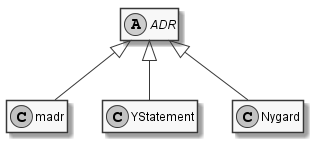
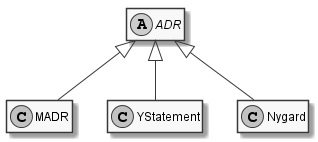
Rename madr to MADR

diff --git a/index.md b/index.md
@@ -6,21 +6,22 @@ An *Architectural Decision Record (ADR)* captures a single AD, such as often don
 All these are within the topic of Architectural Knowledge Management (AKM).
 Note: this short intro to ADRs is based on information in [Joel Parkerhenderson's GitHub repo](https://github.com/joelparkerhenderson/architecture_decision_record/blob/01cc3c801b1cc61f82391a0a08986e4145e21c56/README.md).
 
-The aim of this [GitHub adr organization](http://github.com/adr) is to:
+The aim of the [GitHub adr organization](http://github.com/adr) is to:
+
 1. Motivate the need for and benefits of AD capturing and establish a common vocabulary 
-2. Strenghten the tooling around ADRs, in support of agile practices and iterative and incremental software engineering processes
-3. Provide provide pointers to public knowledge in the context of AKM and ADRs (for instance, [this website](https://www.ifs.hsr.ch/index.php?id=13201&L=4))
+2. Strengthen the tooling around ADRs, in support of agile practices as well as iterative and incremental software engineering processes
+3. Provide pointers to public knowledge in the context of AKM and ADRs (for instance, [this website](https://www.ifs.hsr.ch/index.php?id=13201&L=4))
 
 We currently base our work on the guidelines and principles in [Sustainable Architectural Decisions](https://www.infoq.com/articles/sustainable-architectural-design-decisions) by Zdun et al., for instance the Y-statement format suggested in that article.
-Howver, we are open to other formats of ADRs as shown at <https://github.com/joelparkerhenderson/architecture_decision_record>.
+However, we are open to other formats of ADRs as shown at <https://github.com/joelparkerhenderson/architecture_decision_record>.
 
 ## Offered Projects
 
-- [madr](https://github.com/adr/madr) - The Markdown Architecture Decision Records. Lean ADRs to quickly document architectural decisions in code.
+- [MADR](https://github.com/adr/madr) - The Markdown Architecture Decision Records. Lean ADRs to quickly document architectural decisions in code.
 - [Embedded Architectural Decision Records](https://github.com/adr/e-adr), which shows how a distributed AD log can be embedded in Java Code via ADR annotations.
 - [eadlsync](https://github.com/adr/eadlsync) - Synchronizes embedded architectural decision records with a repository of architectural decitions.
 
-## Relation of ADRs, madr, and others
+## Relation of ADRs, MADR, and others
 
 ![ADR](ADR.png)
 
